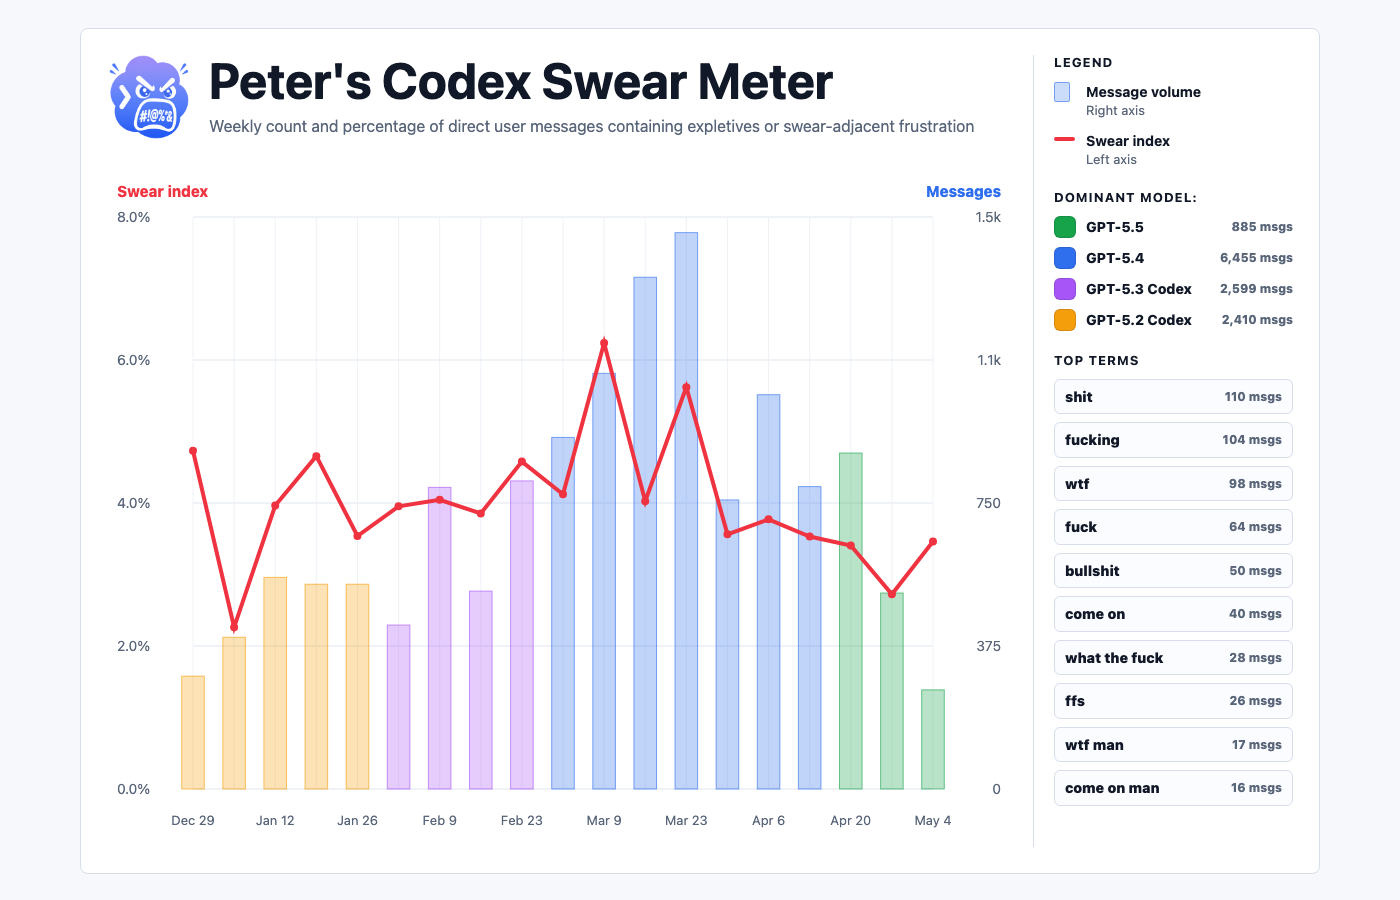
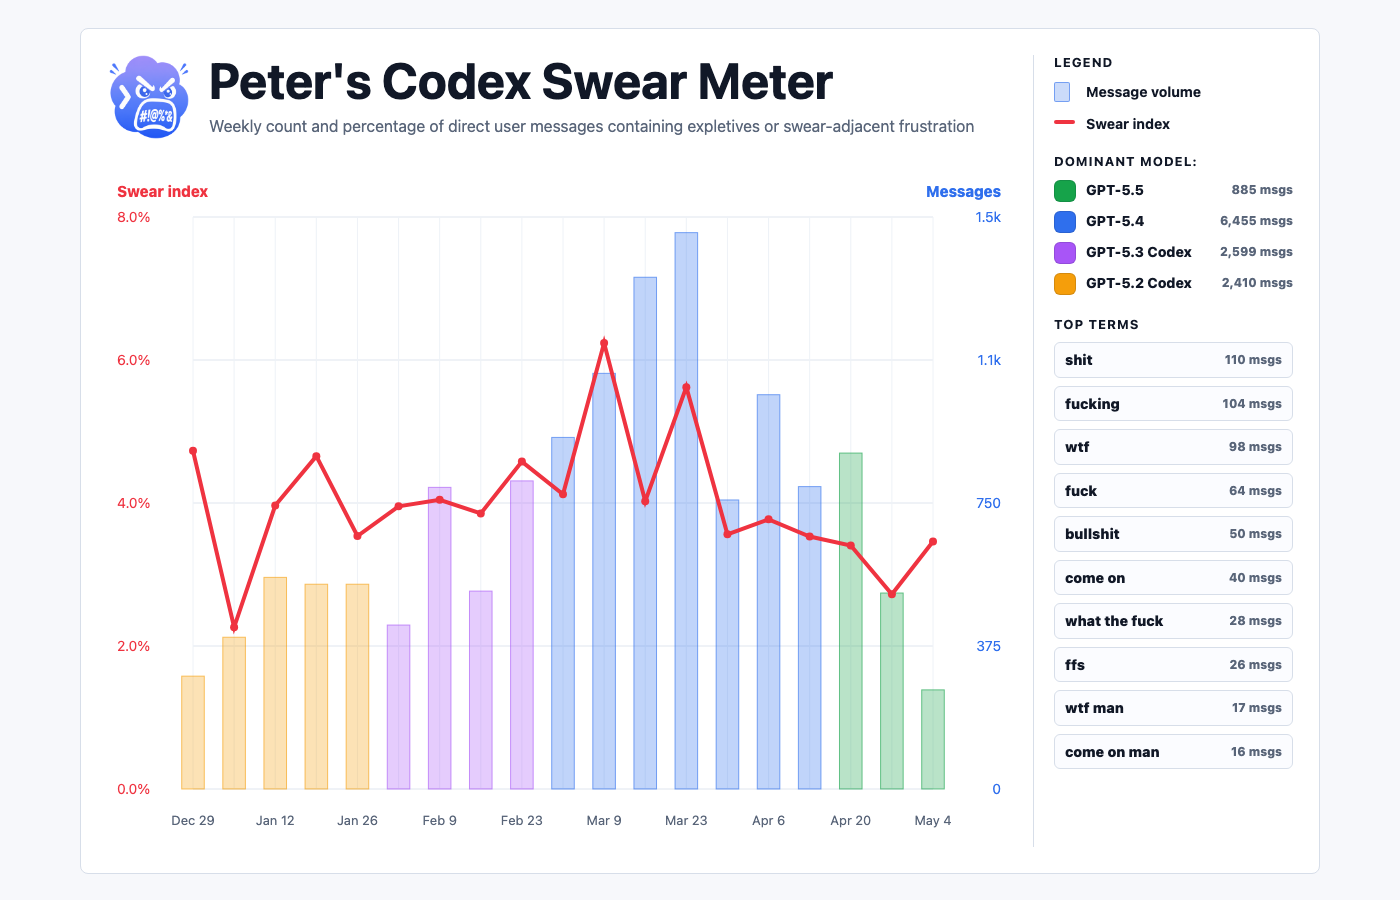
Simplify chart axis legend

Changed region(s): [[0.7371, 0.1244, 0.9214, 0.9022]]

diff --git a/skills/codex-swear-meter/scripts/codex_swear_meter.py b/skills/codex-swear-meter/scripts/codex_swear_meter.py
@@ -466,8 +466,8 @@ SPICE_TIMELINE_TEMPLATE = """<!doctype html>
           <div>
             <h2>Legend</h2>
             <ul class="key-list">
-              <li><i class="bar-key"></i><span><strong>Message volume</strong><span>Right axis</span></span></li>
-              <li><i class="line-key"></i><span><strong>Swear index</strong><span>Left axis</span></span></li>
+              <li><i class="bar-key"></i><span><strong>Message volume</strong></span></li>
+              <li><i class="line-key"></i><span><strong>Swear index</strong></span></li>
             </ul>
           </div>
 
@@ -601,9 +601,9 @@ SPICE_TIMELINE_TEMPLATE = """<!doctype html>
 
       ctx.strokeStyle = colors.grid;
       ctx.lineWidth = 1;
-      ctx.fillStyle = colors.muted;
       ctx.font = `${mobile ? 12 : 14}px system-ui, sans-serif`;
       ctx.textAlign = "left";
+      ctx.fillStyle = colors.signal;
       for (let i = 0; i <= 4; i += 1) {
         const y = pad.top + plotH * i / 4;
         const rateValue = maxRate * (1 - i / 4);
@@ -615,6 +615,7 @@ SPICE_TIMELINE_TEMPLATE = """<!doctype html>
       }
 
       ctx.textAlign = "right";
+      ctx.fillStyle = colors.volume;
       for (let i = 0; i <= 4; i += 1) {
         const y = pad.top + plotH * i / 4;
         const countValue = maxTotal * (1 - i / 4);

diff --git a/src/codex_log_tone_audit/audit.py b/src/codex_log_tone_audit/audit.py
@@ -465,8 +465,8 @@ SPICE_TIMELINE_TEMPLATE = """<!doctype html>
           <div>
             <h2>Legend</h2>
             <ul class="key-list">
-              <li><i class="bar-key"></i><span><strong>Message volume</strong><span>Right axis</span></span></li>
-              <li><i class="line-key"></i><span><strong>Swear index</strong><span>Left axis</span></span></li>
+              <li><i class="bar-key"></i><span><strong>Message volume</strong></span></li>
+              <li><i class="line-key"></i><span><strong>Swear index</strong></span></li>
             </ul>
           </div>
 
@@ -600,9 +600,9 @@ SPICE_TIMELINE_TEMPLATE = """<!doctype html>
 
       ctx.strokeStyle = colors.grid;
       ctx.lineWidth = 1;
-      ctx.fillStyle = colors.muted;
       ctx.font = `${mobile ? 12 : 14}px system-ui, sans-serif`;
       ctx.textAlign = "left";
+      ctx.fillStyle = colors.signal;
       for (let i = 0; i <= 4; i += 1) {
         const y = pad.top + plotH * i / 4;
         const rateValue = maxRate * (1 - i / 4);
@@ -614,6 +614,7 @@ SPICE_TIMELINE_TEMPLATE = """<!doctype html>
       }
 
       ctx.textAlign = "right";
+      ctx.fillStyle = colors.volume;
       for (let i = 0; i <= 4; i += 1) {
         const y = pad.top + plotH * i / 4;
         const countValue = maxTotal * (1 - i / 4);